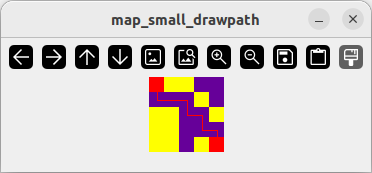
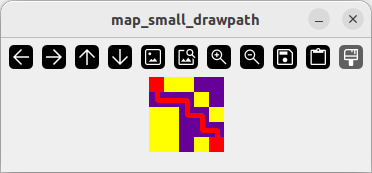
Update: drawpath() - cv2.line()

Changed region(s): [[0.414, 0.5202, 0.5914, 0.8092]]

diff --git a/opencv.py b/opencv.py
@@ -83,20 +83,13 @@ def upscale(src,size,scale)->np.array:
     return dst
 
 # 정답열 경로 표시 함수
-def drawpath(src,ans,scale)->None:
-    ans=ans*scale
+def drawpath(src,ans,scale,thickness)->None:
+    ans=ans*scale # scaled answer coordinate
     ans=ans+((scale+1)//2)
     for i in range(0,ans.shape[0]-1,1):
-        ans1=ans[i]
-        ans2=ans[i+1]
-        if   ans1[0]-ans2[0]==0: # 행 좌표가 같음 - 가로 방향 경로
-            for j in range(ans1[1],ans2[1],1):
-                src[ans1[0]][j]=RED
-        elif ans1[1]-ans2[1]==0: # 열 좌표가 같음 - 세로 방향 경로
-            for j in range(ans1[0],ans2[0],1):
-                src[j][ans1[1]]=RED
-        else:
-            print("ans error")  
+        ans1=(ans[i][1],  ans[i][0])
+        ans2=(ans[i+1][1],ans[i+1][0])
+        cv2.line(src,ans1,ans2,RED,thickness)
 
 # 원본 맵 업스케일링
 map=np.zeros((60,60,3),np.uint8)
@@ -130,6 +123,6 @@ init=(0,0); map[0][0]=RED
 goal=(4,4); map[4][4]=RED
 map=upscale(map,5,15); cv2.imshow("map_small",map)
 ans=np.array([[0,0],[1,0],[1,1],[1,2],[2,2],[2,3],[3,3],[3,4],[4,4]],np.uint8)
-drawpath(map,ans,15); cv2.imshow("map_small_drawpath",map)
+drawpath(map,ans,15,3); cv2.imshow("map_small_drawpath",map)
 
 cv2.waitKey(0)

diff --git a/README.md b/README.md
@@ -7,7 +7,7 @@
 ```
 $ python3 opencv.py
 ```
-#### upscale()
+#### upscale(): 맵 업스케일
 ```
 def upscale(src,size,scale)->np.array:
 ```
@@ -17,13 +17,14 @@ scale: 업스케일링 배율
 |맵 원본|15배 업스케일 맵|
 |---|---|
 |<img src="./static/upscale.png">|<img src="./static/upscale_dst.png">|
-#### drawpath()
+#### drawpath(): 정답열 시각화
 ```
-def drawpath(src,ans,scale)->None:
+def drawpath(src,ans,scale,thcikness)->None:
 ```
 src: 업스케일된 맵 행렬 영상  
 ans: 정답열 열거형(np.array)  
 scale: 업스케일링 배율  
-|맵 원본|경로가 표시된 맵|
+thickness: 선 굵기
+|맵 원본|경로가 표시된 맵(선 굵기 3)|
 |---|---|
 |<img src="./static/drawpath_src.png">|<img src="./static/drawpath_dst.png">|
